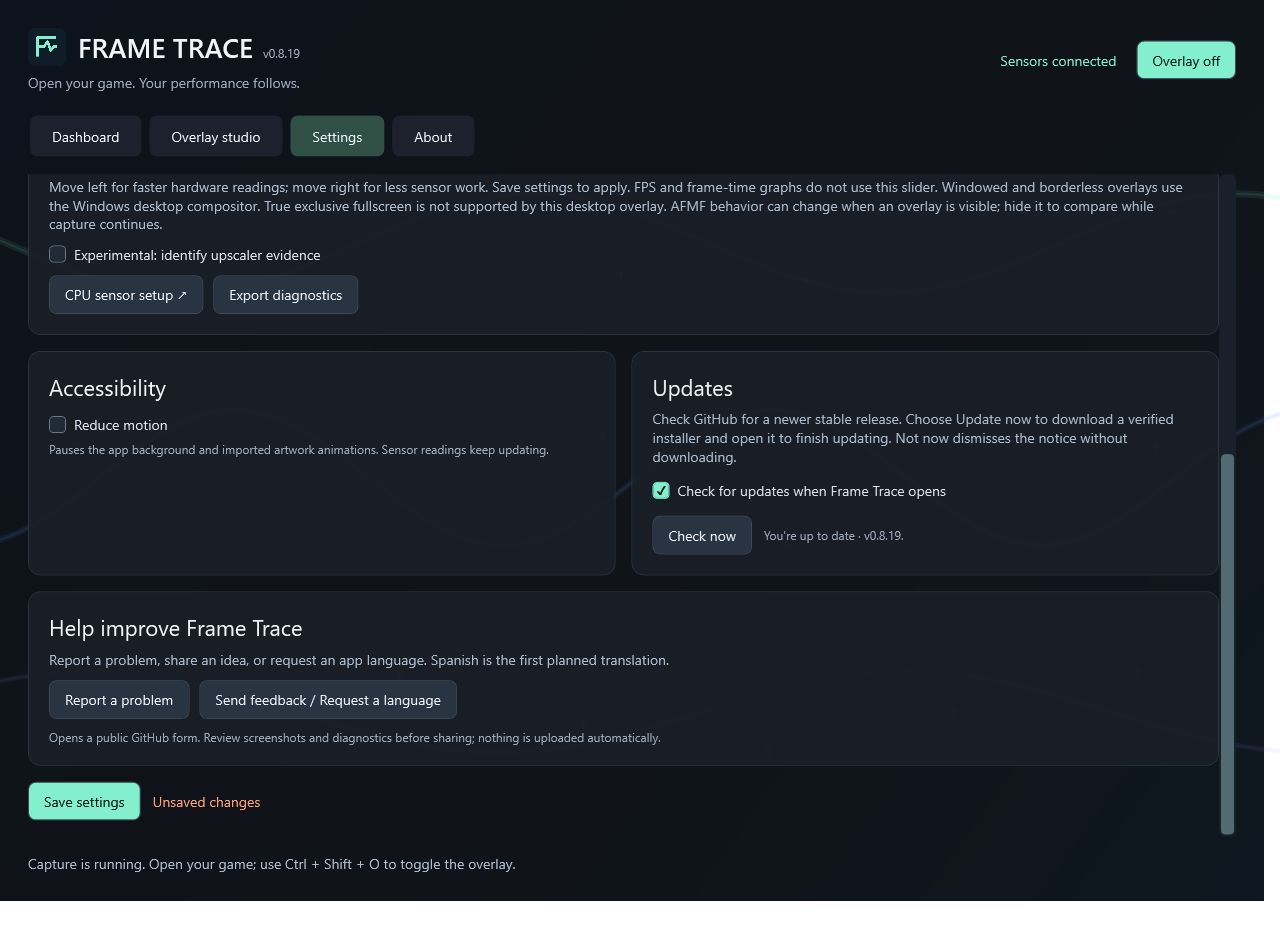
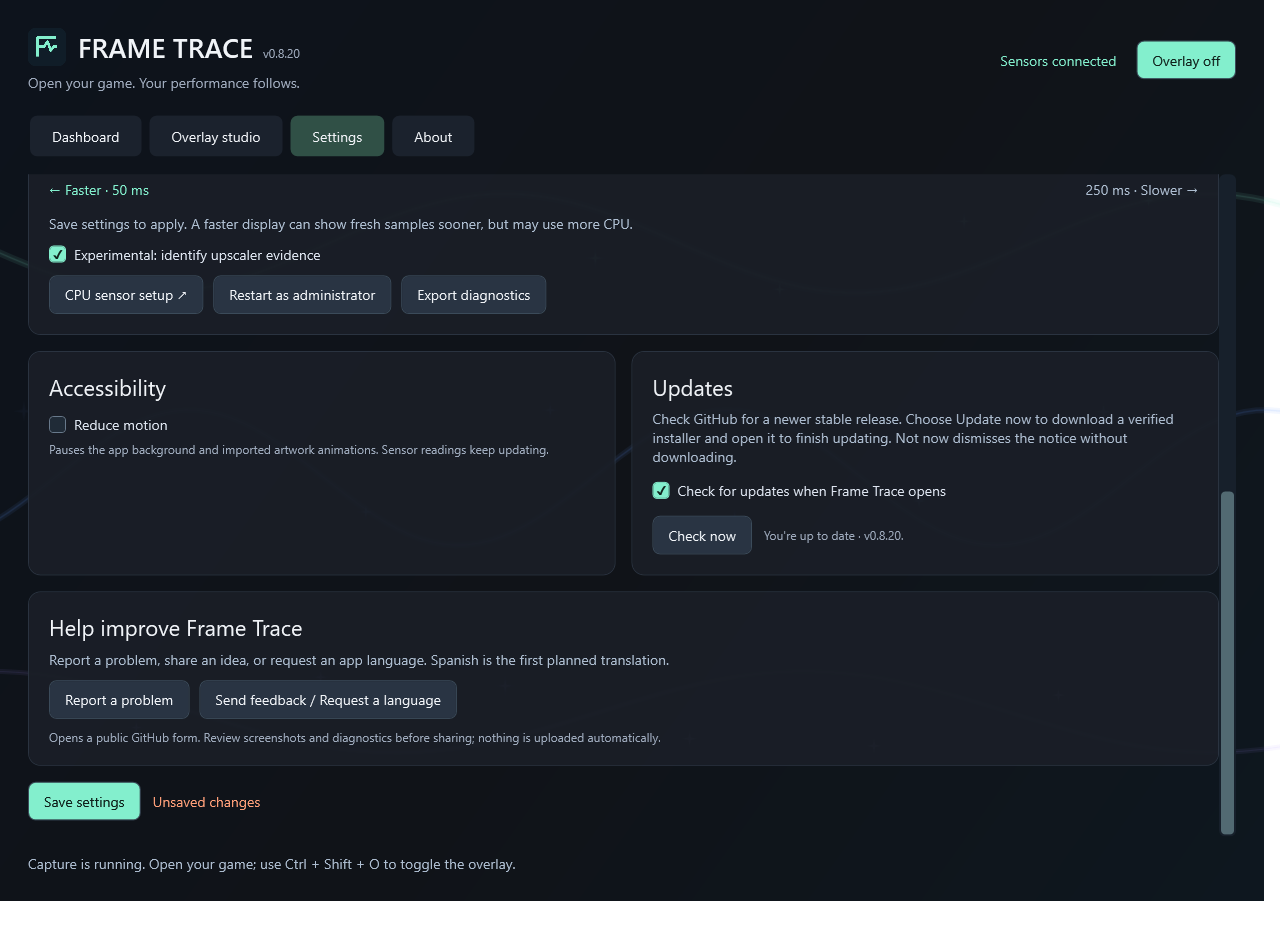
Release Frame Trace 0.8.20 with FPS display interval

diff --git a/src/MainWindow.xaml b/src/MainWindow.xaml
@@ -97,7 +97,12 @@
 
      <Border Grid.Row="0" Grid.Column="2" Style="{StaticResource Card}" Margin="0,0,0,16"><StackPanel><TextBlock Text="Automatic game detection" FontSize="22"/><TextBlock Text="Capture runs continuously and follows the foreground rendering process. Common browsers, launchers, and desktop apps are ignored. Unknown games do not need a prebuilt game profile." Foreground="#AEBED1" TextWrapping="Wrap" Margin="0,8,0,12"/><TextBlock Text="Ignore these applications · one filename per line" Style="{StaticResource Muted}"/><TextBox x:Name="IgnoredApps" AcceptsReturn="True" Height="105" VerticalScrollBarVisibility="Auto" AutomationProperties.AutomationId="IgnoredApps" Margin="0,7,0,0"/><TextBlock Text="Dashboard Ignore/Allow updates this list and saves immediately. You can also edit filenames here, then choose Save settings." Style="{StaticResource Muted}" TextWrapping="Wrap" Margin="0,8,0,0"/></StackPanel></Border>
 
-      <Border Grid.Row="1" Grid.ColumnSpan="3" Style="{StaticResource Card}" Margin="0,0,0,16"><StackPanel><TextBlock Text="Sensors &amp; compatibility" FontSize="22"/><TextBlock Text="Hardware sensor update interval · CPU, GPU and RAM" Foreground="#AEBED1" Margin="0,12,0,4"/><DockPanel><TextBlock x:Name="SensorRefreshLabel" DockPanel.Dock="Right" Foreground="#83EFCD" VerticalAlignment="Center" Margin="12,0,0,0"/><Slider x:Name="SensorRefreshSlider" Minimum="250" Maximum="3000" Value="1000" TickFrequency="250" IsSnapToTickEnabled="True" ValueChanged="SensorRefreshChanged" PreviewMouseDoubleClick="ResetSensorRefresh" ToolTip="Hardware sensors only. Left is faster (250 ms); right is slower (3000 ms). Default: 1000 ms. Double-click to reset." AutomationProperties.AutomationId="SensorRefreshSlider"/></DockPanel><DockPanel LastChildFill="False" Margin="0,4,0,8"><TextBlock DockPanel.Dock="Left" Text="← Faster · 250 ms" Foreground="#83EFCD"/><TextBlock DockPanel.Dock="Right" Text="3000 ms · Slower →" Foreground="#AEBED1"/></DockPanel><TextBlock Text="Move left for faster hardware readings; move right for less sensor work. Save settings to apply. FPS and frame-time graphs do not use this slider. Windowed and borderless overlays use the Windows desktop compositor. True exclusive fullscreen is not supported by this desktop overlay. AFMF behavior can change when an overlay is visible; hide it to compare while capture continues." Foreground="#AEBED1" TextWrapping="Wrap" Margin="0,8,0,12"/><CheckBox x:Name="InspectAmdUpscalerInput" Content="Experimental: identify upscaler evidence" ToolTip="For Cyberpunk, reads its saved graphics choice. For other games, checks loaded AMD FSR and Intel XeSS libraries. Neither proves the final output or detects driver and mod overrides. Leave module inspection off in anti-cheat games unless permitted by their rules." AutomationProperties.AutomationId="InspectAmdUpscaler" Margin="0,0,0,12"/><WrapPanel><Button Content="CPU sensor setup ↗" Click="OpenSensorDriver"/><Button x:Name="AdministratorButton" Content="Restart as administrator" Click="RestartElevated" Margin="10,0,0,0"/><Button Content="Export diagnostics" Click="ExportDiagnostics" Margin="10,0,0,0"/></WrapPanel></StackPanel></Border>
+      <Border Grid.Row="1" Grid.ColumnSpan="3" Style="{StaticResource Card}" Margin="0,0,0,16"><StackPanel><TextBlock Text="Sensors &amp; compatibility" FontSize="22"/><TextBlock Text="Hardware sensor update interval · CPU, GPU and RAM" Foreground="#AEBED1" Margin="0,12,0,4"/><DockPanel><TextBlock x:Name="SensorRefreshLabel" DockPanel.Dock="Right" Foreground="#83EFCD" VerticalAlignment="Center" Margin="12,0,0,0"/><Slider x:Name="SensorRefreshSlider" Minimum="250" Maximum="3000" Value="1000" TickFrequency="250" IsSnapToTickEnabled="True" ValueChanged="SensorRefreshChanged" PreviewMouseDoubleClick="ResetSensorRefresh" ToolTip="Hardware sensors only. Left is faster (250 ms); right is slower (3000 ms). Default: 1000 ms. Double-click to reset." AutomationProperties.AutomationId="SensorRefreshSlider"/></DockPanel><DockPanel LastChildFill="False" Margin="0,4,0,8"><TextBlock DockPanel.Dock="Left" Text="← Faster · 250 ms" Foreground="#83EFCD"/><TextBlock DockPanel.Dock="Right" Text="3000 ms · Slower →" Foreground="#AEBED1"/></DockPanel><TextBlock Text="Move left for faster hardware readings; move right for less sensor work. Save settings to apply. FPS and frame-time displays use the separate control below. Windowed and borderless overlays use the Windows desktop compositor. True exclusive fullscreen is not supported by this desktop overlay. AFMF behavior can change when an overlay is visible; hide it to compare while capture continues." Foreground="#AEBED1" TextWrapping="Wrap" Margin="0,8,0,12"/>
+        <TextBlock Text="FPS and graph display update interval" Foreground="#AEBED1" Margin="0,4,0,4"/>
+        <DockPanel><TextBlock x:Name="FpsRefreshLabel" DockPanel.Dock="Right" Foreground="#83EFCD" VerticalAlignment="Center" Margin="12,0,0,0"/><Slider x:Name="FpsRefreshSlider" Minimum="50" Maximum="250" Value="100" TickFrequency="50" IsSnapToTickEnabled="True" ValueChanged="FpsRefreshChanged" PreviewMouseDoubleClick="ResetFpsRefresh" ToolTip="How often Frame Trace updates displayed FPS and graphs. Left is faster (50 ms); right is slower (250 ms). Default: 100 ms. This does not change game FPS or the rate of incoming capture data. Double-click to reset." AutomationProperties.AutomationId="FpsRefreshSlider"/></DockPanel>
+        <DockPanel LastChildFill="False" Margin="0,4,0,8"><TextBlock DockPanel.Dock="Left" Text="← Faster · 50 ms" Foreground="#83EFCD"/><TextBlock DockPanel.Dock="Right" Text="250 ms · Slower →" Foreground="#AEBED1"/></DockPanel>
+        <TextBlock Text="Save settings to apply. A faster display can show fresh samples sooner, but may use more CPU." Foreground="#AEBED1" TextWrapping="Wrap" Margin="0,8,0,12"/>
+        <CheckBox x:Name="InspectAmdUpscalerInput" Content="Experimental: identify upscaler evidence" ToolTip="For Cyberpunk, reads its saved graphics choice. For other games, checks loaded AMD FSR and Intel XeSS libraries. Neither proves the final output or detects driver and mod overrides. Leave module inspection off in anti-cheat games unless permitted by their rules." AutomationProperties.AutomationId="InspectAmdUpscaler" Margin="0,0,0,12"/><WrapPanel><Button Content="CPU sensor setup ↗" Click="OpenSensorDriver"/><Button x:Name="AdministratorButton" Content="Restart as administrator" Click="RestartElevated" Margin="10,0,0,0"/><Button Content="Export diagnostics" Click="ExportDiagnostics" Margin="10,0,0,0"/></WrapPanel></StackPanel></Border>
 
       <Border Grid.Row="2" Grid.Column="0" Style="{StaticResource Card}" Margin="0,0,0,16"><StackPanel><TextBlock Text="Accessibility" FontSize="22"/><CheckBox x:Name="ReduceMotionInput" Content="Reduce motion" Margin="0,14,0,0"/><TextBlock Text="Pauses the app background and imported artwork animations. Sensor readings keep updating." Style="{StaticResource Muted}" TextWrapping="Wrap" Margin="0,7,0,0"/></StackPanel></Border>
 

diff --git a/src/SmokeTest.cs b/src/SmokeTest.cs
@@ -331,22 +331,25 @@ public static class SmokeTest
             Preferences custom = Preferences.Initial with { Sections = Preferences.Initial.Sections.Select(section => section with { Labels = section.Kind == SectionKind.Frames ? section.Labels.SetItem("app", "My FPS") : section.Labels }).ToImmutableArray() };
             Preferences.Write(custom, Path.Combine(outputDirectory, "custom.json"));
             Require(Preferences.Parse(File.ReadAllText(Path.Combine(outputDirectory, "custom.json"))).Sections[0].Labels["app"] == "My FPS", "Custom labels did not survive saving.");
-            Preferences sensorRate = Preferences.Initial with { SensorRefreshMs = 2500 };
+            Preferences sensorRate = Preferences.Initial with { SensorRefreshMs = 2500, FpsRefreshMs = 50 };
             Preferences.Write(sensorRate, Path.Combine(outputDirectory, "sensor-refresh.json"));
-            Require(Preferences.Parse(File.ReadAllText(Path.Combine(outputDirectory, "sensor-refresh.json"))).SensorRefreshMs == 2500, "Sensor refresh preference did not survive saving.");
+            Preferences savedRate = Preferences.Parse(File.ReadAllText(Path.Combine(outputDirectory, "sensor-refresh.json")));
+            Require(savedRate.SensorRefreshMs == 2500 && savedRate.FpsRefreshMs == 50, "Display or sensor refresh preference did not survive saving.");
             Preferences startup = Preferences.Initial with { StartMinimized = true, RunAtLogin = true, ReduceMotion = true, CheckUpdatesOnStartup = false, InspectAmdUpscaler = true };
             Preferences.Write(startup, Path.Combine(outputDirectory, "settings.json"));
             Preferences restoredSettings = Preferences.Parse(File.ReadAllText(Path.Combine(outputDirectory, "settings.json")));
             Require(restoredSettings.StartMinimized && restoredSettings.RunAtLogin && restoredSettings.ReduceMotion && !restoredSettings.CheckUpdatesOnStartup && restoredSettings.InspectAmdUpscaler, "Startup, accessibility, or AMD inspection preferences did not survive saving.");
-            Preferences localSettings = Preferences.Initial with { Shortcut = new Hotkey(3, 0x4B), OverlayEnabled = false, IgnoredApps = ["notepad.exe"], SensorRefreshMs = 1500, StartMinimized = true, RunAtLogin = true, ReduceMotion = true, CheckUpdatesOnStartup = false };
+            Preferences localSettings = Preferences.Initial with { Shortcut = new Hotkey(3, 0x4B), OverlayEnabled = false, IgnoredApps = ["notepad.exe"], SensorRefreshMs = 1500, FpsRefreshMs = 200, StartMinimized = true, RunAtLogin = true, ReduceMotion = true, CheckUpdatesOnStartup = false };
             Preferences sharedLayout = Preferences.ForLayoutExport(localSettings);
             Require(!sharedLayout.StartMinimized && !sharedLayout.RunAtLogin && !sharedLayout.ReduceMotion && sharedLayout.CheckUpdatesOnStartup && sharedLayout.IgnoredApps.SequenceEqual(Preferences.Initial.IgnoredApps), "Layout export included local startup, accessibility, update, or ignore-list settings.");
             Preferences importedLayout = Preferences.ApplyImportedLayout(localSettings, Preferences.Initial with { Font = "Arial" });
-            Require(importedLayout.Font == "Arial" && importedLayout.Shortcut == localSettings.Shortcut && !importedLayout.OverlayEnabled && importedLayout.IgnoredApps.SequenceEqual(localSettings.IgnoredApps) && importedLayout.SensorRefreshMs == 1500 && importedLayout.StartMinimized && importedLayout.RunAtLogin && importedLayout.ReduceMotion && !importedLayout.CheckUpdatesOnStartup, "Importing a layout changed local app settings.");
+            Require(importedLayout.Font == "Arial" && importedLayout.Shortcut == localSettings.Shortcut && !importedLayout.OverlayEnabled && importedLayout.IgnoredApps.SequenceEqual(localSettings.IgnoredApps) && importedLayout.SensorRefreshMs == 1500 && importedLayout.FpsRefreshMs == 200 && importedLayout.StartMinimized && importedLayout.RunAtLogin && importedLayout.ReduceMotion && !importedLayout.CheckUpdatesOnStartup, "Importing a layout changed local app settings.");
             Require(!Preferences.HasLayoutChanges(localSettings, Preferences.Initial), "Local app settings incorrectly marked the overlay layout as edited.");
             Require(!Preferences.HasLayoutChanges(Preferences.Parse(JsonSerializer.Serialize(custom)), custom) && Preferences.HasLayoutChanges(custom, Preferences.Initial), "Layout edit detection missed customization or marked identical layouts as edited.");
             try { Preferences.Validate(Preferences.Initial with { SensorRefreshMs = 251 }); throw new InvalidDataException("Invalid sensor refresh interval was accepted."); }
             catch (InvalidDataException error) when (error.Message.StartsWith("Sensor refresh interval", StringComparison.Ordinal)) { }
+            try { Preferences.Validate(Preferences.Initial with { FpsRefreshMs = 75 }); throw new InvalidDataException("Invalid FPS display refresh interval was accepted."); }
+            catch (InvalidDataException error) when (error.Message.StartsWith("FPS display refresh interval", StringComparison.Ordinal)) { }
             foreach (string preset in LayoutPresets.Names)
             {
                 Preferences styled = Preferences.Validate(LayoutPresets.Create(Preferences.Initial, preset));

diff --git a/src/MainWindow.xaml.cs b/src/MainWindow.xaml.cs
@@ -430,7 +430,7 @@ public partial class MainWindow : Window
 
             RenderData();
 
-            try { await Task.Delay(100, shutdown.Token); }
+            try { await Task.Delay(preferences.FpsRefreshMs, shutdown.Token); }
 
             catch (OperationCanceledException) when (shutdown.IsCancellationRequested) { break; }
 
@@ -506,10 +506,13 @@ public partial class MainWindow : Window
 
     }
 
-    private Preferences CollectSettings() => Preferences.Validate(draft with { OverlayEnabled = OverlayStartup.IsChecked == true, StartMinimized = StartMinimizedInput.IsChecked == true, RunAtLogin = RunAtLoginInput.IsChecked == true, ReduceMotion = ReduceMotionInput.IsChecked == true, CheckUpdatesOnStartup = CheckUpdatesOnStartupInput.IsChecked == true, InspectAmdUpscaler = InspectAmdUpscalerInput.IsChecked == true, SensorRefreshMs = (int)SensorRefreshSlider.Value, IgnoredApps = IgnoredApps.Text.Split(Environment.NewLine, StringSplitOptions.RemoveEmptyEntries | StringSplitOptions.TrimEntries).Distinct(StringComparer.OrdinalIgnoreCase).ToImmutableArray() });
+    private Preferences CollectSettings() => Preferences.Validate(draft with { OverlayEnabled = OverlayStartup.IsChecked == true, StartMinimized = StartMinimizedInput.IsChecked == true, RunAtLogin = RunAtLoginInput.IsChecked == true, ReduceMotion = ReduceMotionInput.IsChecked == true, CheckUpdatesOnStartup = CheckUpdatesOnStartupInput.IsChecked == true, InspectAmdUpscaler = InspectAmdUpscalerInput.IsChecked == true, SensorRefreshMs = (int)SensorRefreshSlider.Value, FpsRefreshMs = (int)FpsRefreshSlider.Value, IgnoredApps = IgnoredApps.Text.Split(Environment.NewLine, StringSplitOptions.RemoveEmptyEntries | StringSplitOptions.TrimEntries).Distinct(StringComparer.OrdinalIgnoreCase).ToImmutableArray() });
 
     private void SensorRefreshChanged(object sender, RoutedPropertyChangedEventArgs<double> e) =>
         SensorRefreshLabel.Text = $"{e.NewValue:0} ms · up to {1000 / e.NewValue:0.##} sensor reads/sec";
+
+    private void FpsRefreshChanged(object sender, RoutedPropertyChangedEventArgs<double> e) =>
+        FpsRefreshLabel.Text = $"{e.NewValue:0} ms · up to {1000 / e.NewValue:0.##} display updates/sec";
 
     private void SettingsEdited(object sender, RoutedEventArgs e)
     {

diff --git a/src/Preferences.cs b/src/Preferences.cs
@@ -90,6 +90,7 @@ public sealed record Preferences(int SchemaVersion, string Accent, double Opacit
     public double OverlayScale { get; init; } = 1;
     public bool HideUnknownTechnology { get; init; } = true;
     public int SensorRefreshMs { get; init; } = 1000;
+    public int FpsRefreshMs { get; init; } = 100;
     public bool StartMinimized { get; init; }
     public bool RunAtLogin { get; init; }
     public bool ReduceMotion { get; init; }
@@ -153,6 +154,7 @@ public sealed record Preferences(int SchemaVersion, string Accent, double Opacit
 
         if (!double.IsFinite(value.OverlayScale) || value.OverlayScale is < 0.5 or > 3) throw new InvalidDataException("Overlay size must be between 50% and 300%.");
         if (value.SensorRefreshMs is < 250 or > 3000 || value.SensorRefreshMs % 250 != 0) throw new InvalidDataException("Sensor refresh interval must be 250–3000 milliseconds in 250 millisecond steps.");
+        if (value.FpsRefreshMs is < 50 or > 250 || value.FpsRefreshMs % 50 != 0) throw new InvalidDataException("FPS display refresh interval must be 50–250 milliseconds in 50 millisecond steps.");
 
         if (!double.IsFinite(value.Opacity) || value.Opacity is < 0 or > 1) throw new InvalidDataException("Panel opacity must be between 0% and 100%.");
 
@@ -324,7 +326,7 @@ public sealed record Preferences(int SchemaVersion, string Accent, double Opacit
     public static Preferences ApplyImportedLayout(Preferences current, Preferences imported) => Validate(imported with
     {
         Shortcut = current.Shortcut, OverlayEnabled = current.OverlayEnabled, IgnoredApps = current.IgnoredApps,
-        SensorRefreshMs = current.SensorRefreshMs, StartMinimized = current.StartMinimized, RunAtLogin = current.RunAtLogin,
+        SensorRefreshMs = current.SensorRefreshMs, FpsRefreshMs = current.FpsRefreshMs, StartMinimized = current.StartMinimized, RunAtLogin = current.RunAtLogin,
         ReduceMotion = current.ReduceMotion, CheckUpdatesOnStartup = current.CheckUpdatesOnStartup, InspectAmdUpscaler = current.InspectAmdUpscaler,
         GameTechnologyChoices = current.GameTechnologyChoices
     });

diff --git a/src/Studio.cs b/src/Studio.cs
@@ -144,6 +144,7 @@ public partial class MainWindow
     private void ResetOverlaySize(object sender, MouseButtonEventArgs e) { OverlaySize.Value = 100; e.Handled = true; }
     private void ResetPanelOpacity(object sender, MouseButtonEventArgs e) { PanelOpacity.Value = 0.65; e.Handled = true; }
     private void ResetSensorRefresh(object sender, MouseButtonEventArgs e) { SensorRefreshSlider.Value = 1000; e.Handled = true; }
+    private void ResetFpsRefresh(object sender, MouseButtonEventArgs e) { FpsRefreshSlider.Value = 100; e.Handled = true; }
     private void ChangeZoom(object sender, RoutedPropertyChangedEventArgs<double> e)
     {
         if (!ready || zoomUpdating) return;
@@ -350,6 +351,7 @@ public partial class MainWindow
         CheckUpdatesOnStartupInput.IsChecked = draft.CheckUpdatesOnStartup;
         InspectAmdUpscalerInput.IsChecked = draft.InspectAmdUpscaler;
         SensorRefreshSlider.Value = draft.SensorRefreshMs;
+        FpsRefreshSlider.Value = draft.FpsRefreshMs;
         IgnoredApps.Text = string.Join(Environment.NewLine, draft.IgnoredApps);
         FontSelector.SelectedIndex = Array.IndexOf(new[] { "Consolas", "Segoe UI", "Arial", "Cascadia Mono" }, draft.Font);
         OverlaySize.Value = draft.OverlayScale * 100; OverlaySizeLabel.Text = $"{draft.OverlayScale:P0}";

diff --git a/README.md b/README.md
@@ -24,7 +24,7 @@
 
 ## Get Frame Trace
 
-Download the Windows x64 installer from [Releases](https://github.com/itourboy-OG/FrameTrace/releases/latest). Frame Trace checks for newer stable releases when it opens (optional) and from **Settings → Check now**. A compact notice offers **Update now** or **Not now**. Update now downloads the installer with percentage progress, verifies its size and SHA-256 against GitHub's release metadata, and opens Windows Setup to finish updating. Frame Trace closes cleanly before installation. Not now dismisses the notice without downloading. Updates never start without your choice.
+Download the Windows x64 installer from [Releases](https://github.com/itourboy-OG/FrameTrace/releases/latest). Frame Trace checks for newer stable releases when it opens (optional) and from **Settings → Check now**. A compact notice offers **Update now** or **Not now**. Update now downloads the installer with percentage progress, verifies its size and SHA-256 against GitHub's release metadata, and opens Windows Setup to finish updating. Frame Trace closes cleanly before installation. Not now dismisses the notice without downloading. The updater goes directly to the latest stable release, even from an older version; updates never start without your choice.
 
 The installer is unsigned in this early release, so Windows may show a SmartScreen warning. Review the source and release details before installing.
 
@@ -36,7 +36,7 @@ The installer is unsigned in this early release, so Windows may show a SmartScre
 - **Experimental upscaler clues:** an optional Settings switch reads Cyberpunk 2077's saved upscaler, preset, and frame-generation choices. In other games, it may only recognize loaded AMD FSR or Intel XeSS libraries. Overlay Studio also lets you confirm an FSR 4.1.1 or FSR 4 FG override for the most recently captured game or choose a running game if capture has not selected one yet; that choice is saved by executable and is not automatic verification.
 - **Overlay Studio:** drag or group-select items, add separate metrics and freeform text or artwork layers, rename labels, adjust colors, fonts, sizes, graphs, and opacity. Match the canvas to your monitor, use the grid and snapping, save or delete named presets, and test edits live. Hover help explains Studio controls; double-click sliders with stated defaults to reset them. The Undo button or Ctrl+Z on the canvas restores the preceding layout edit; Ctrl+Z still undoes text while editing a text field. Unsaved-edits prompts protect work before replacing a layout.
 - **Graphical layouts:** nine built-in presets include the compact horizontal strip. Live usage bars, gauges, graphs, GPU fan artwork, temperature alarms, and a game-name/icon/presentation-API item can be positioned on the canvas. Import an RTSS `.ovl` skin with its companion PNG, preview each artwork choice beside the list, and place supported artwork, animations, graphs, and bars from its layer positions; adjust the result or add individual pieces in Frame Trace.
-- **Settings:** customize the overlay shortcut and startup state, launch at Windows sign-in, start minimized, reduce background motion, ignore selected processes, adjust sensor polling, and choose whether to check for updates on startup.
+- **Settings:** customize the overlay shortcut and startup state, launch at Windows sign-in, start minimized, reduce background motion, ignore selected processes, adjust sensor polling and the separate FPS display update interval, and choose whether to check for updates on startup.
 - **Background work:** the decorative animation pauses when minimized or hidden. Capture and configured sensor polling continue, while hidden dashboard, studio, and overlay displays skip their refresh work. Visible graphs keep their real timestamps and stop requesting redraws when hidden or empty.
 - **Updates:** checks the public GitHub Releases API, offers an optional installer download with percentage progress and checksum verification, and starts Windows Setup after you choose Update now. Failed or canceled downloads are not installed. It does not upload performance readings.
 
@@ -82,7 +82,7 @@ Requirements: Windows 10 or later, .NET 9 SDK, and Inno Setup 6.
 
 ```powershell
 ./build.ps1
-./artifacts/app-0.8.19/FrameTrace.exe --smoke-test C:/path/to/test-results
+./artifacts/app-0.8.20/FrameTrace.exe --smoke-test C:/path/to/test-results
 ```
 
 The build creates a self-contained Windows x64 application and per-user installer. It downloads PresentMon 2.6.0 when needed and verifies its SHA-256 before packaging. The smoke test writes a `result.txt` report and screenshots; it uses real local sensors and ETW capture but does not validate every game or anti-cheat.
@@ -96,7 +96,6 @@ The build creates a self-contained Windows x64 application and per-user installe
 - Investigate a safe path for true exclusive-fullscreen overlays.
 - Explore reliable, cooperative reporting of in-game DLSS, FSR, XeSS, and frame-generation settings.
 - Improve the dashboard, accessibility options, and update experience based on player feedback.
-- Evaluate a separate FPS display update-rate setting; the existing sensor interval controls CPU, GPU, and RAM readings only.
 
 ## Source and contributions
 
